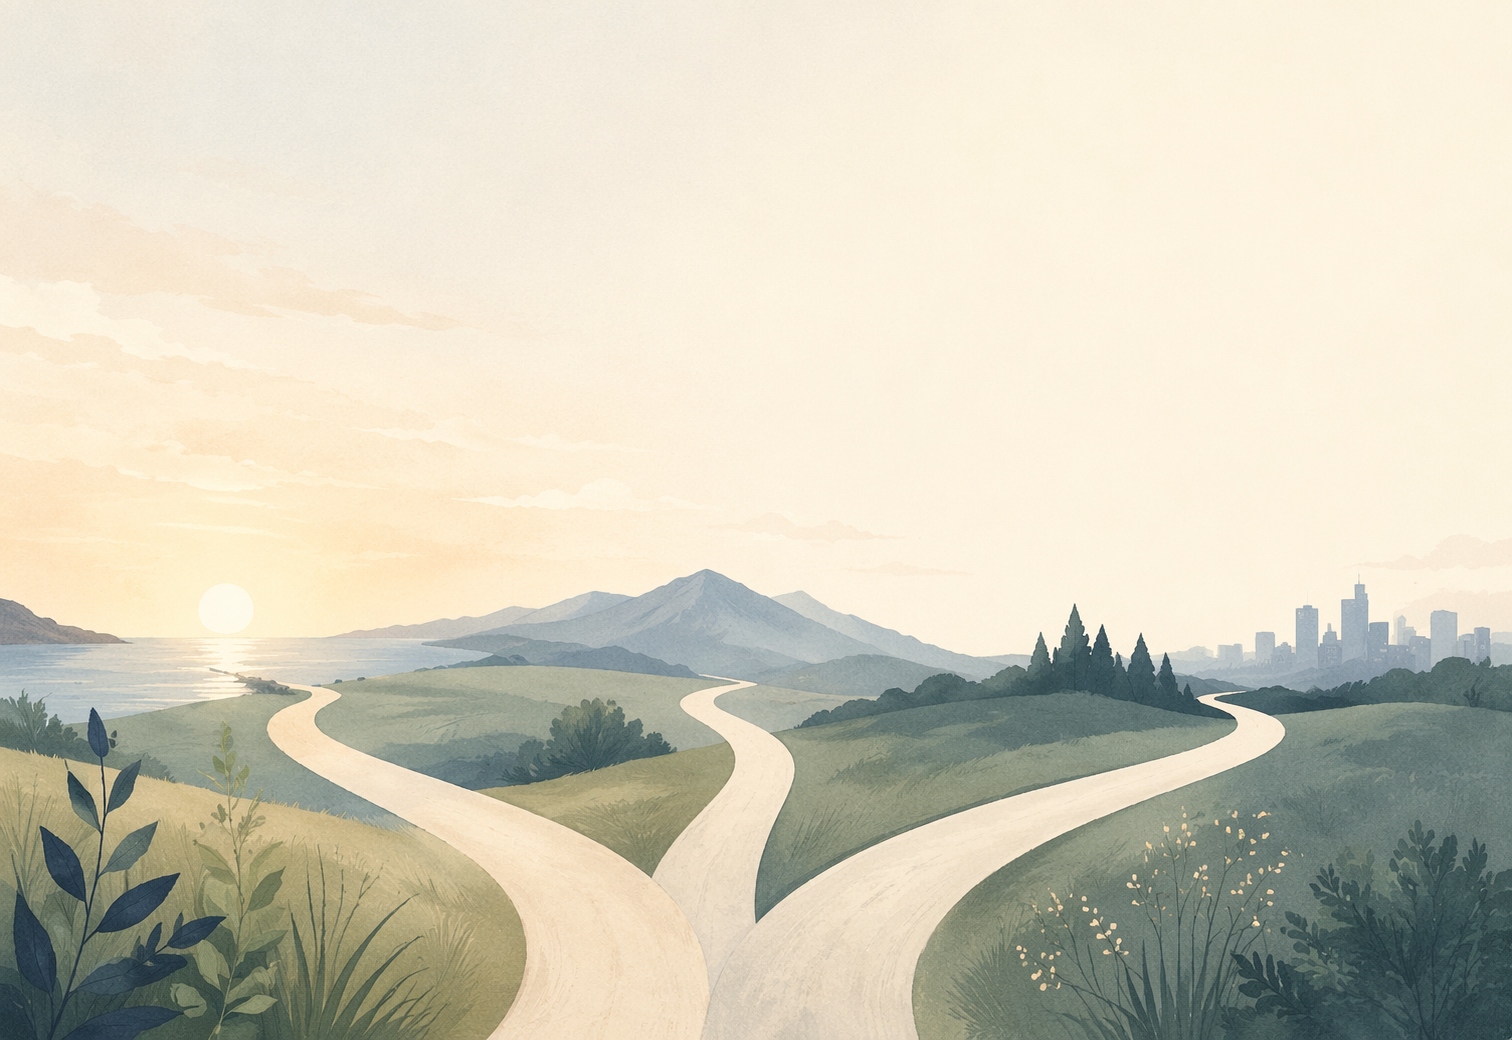
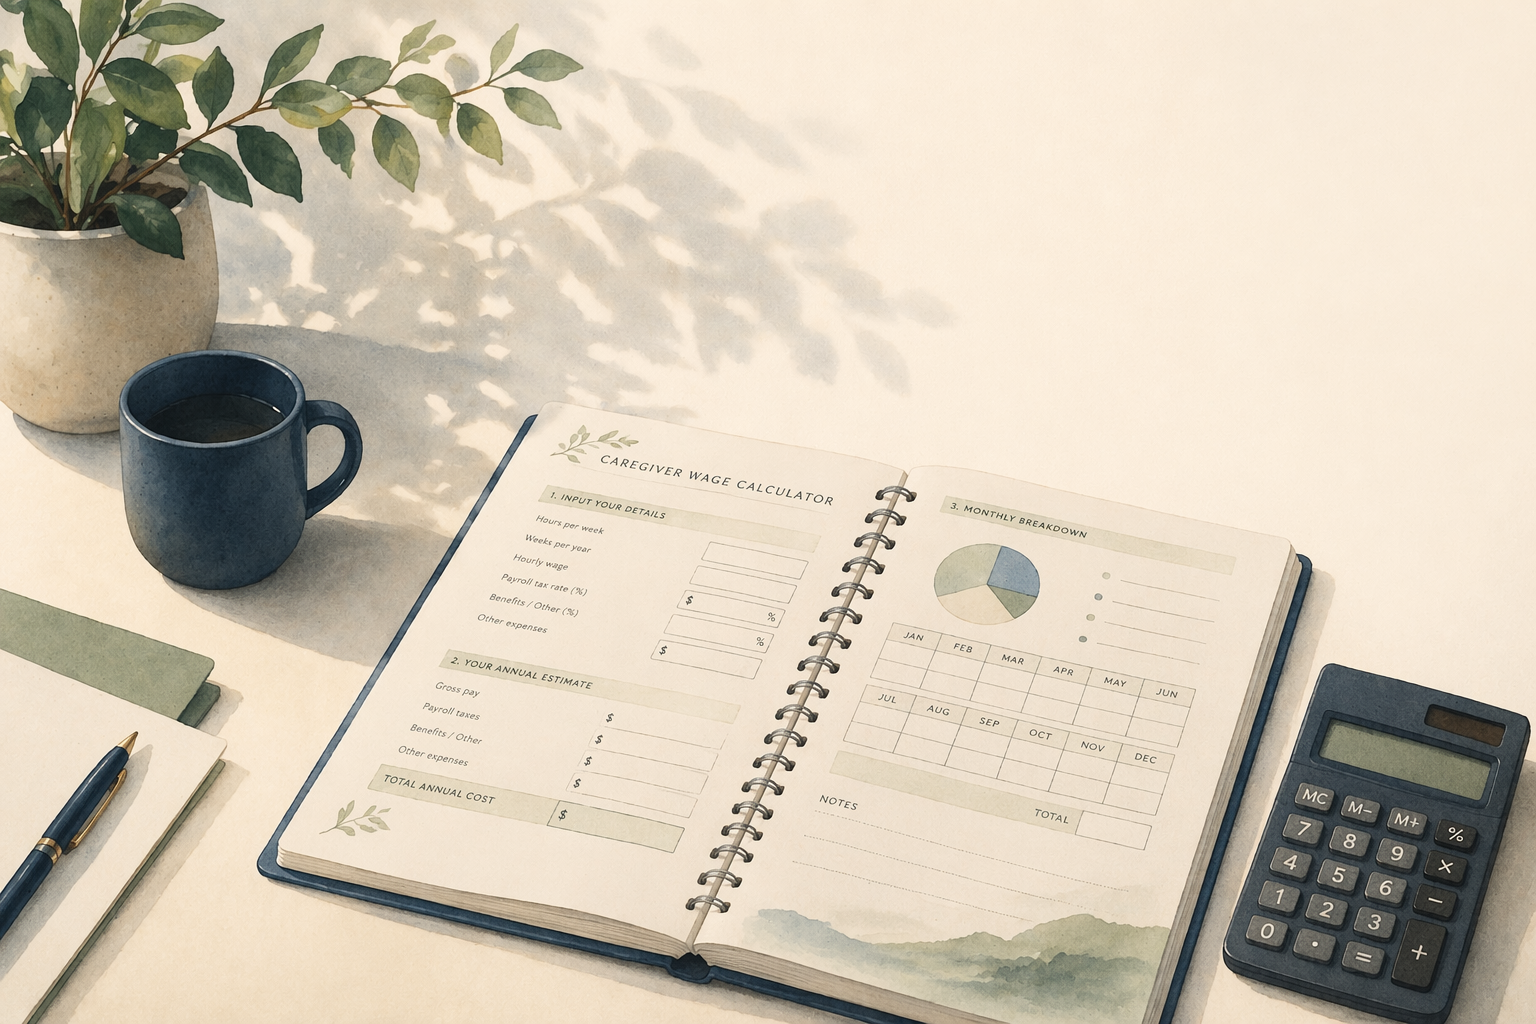
Update direct hire calculator page and resources organization
- Move calculator intro text after wave divider with "Calculator Overview" heading
- Update calculator hero image to Designer (5).png
- Reorganize resources page into three sections: Guides, Checklists, and Tools
- Update calculator button text to "Run Calculator" with calculator icon
- Fix mobile comparison dots in care arrangement guide to appear outside cards and track scroll position
- Update contact form heading to "Need help selecting the right wage?"
- Revise employer cost bullets for clarity (CPP, EI, WSIB, vacation pay)
- Change form name to "direct-hire-calc" for better Netlify detection

diff --git a/app/resources/page.tsx b/app/resources/page.tsx
@@ -114,11 +114,11 @@ export default function ResourcesPage() {
               </div>
             </div>
 
-            {/* Guides & Resources */}
+            {/* Guides */}
             <div className="mb-10">
-              <h3 className="mb-4 font-serif text-[20px] font-semibold text-navy">Guides & Resources</h3>
+              <h3 className="mb-4 font-serif text-[20px] font-semibold text-navy">Guides</h3>
               <div className="grid gap-5 md:grid-cols-2 lg:grid-cols-3">
-                {fmhcResources.map((resource) => {
+                {fmhcResources.filter(r => r.type === 'Full Guide' || r.type === 'Decision Guide').map((resource) => {
                   const Icon = resource.icon
                   return (
                     <div
@@ -136,37 +136,89 @@ export default function ResourcesPage() {
                           {resource.type}
                         </span>
                       </div>
-                      {!resource.comingSoon ? (
-                        resource.featured ? (
-                          <Link href={resource.link} className="mt-4">
-                            <Button
-                              className="w-full gap-2 rounded-lg px-4 text-white transition-all duration-200"
-                              style={{ backgroundColor: '#2B4C7E' }}
-                            >
-                              <BookOpen className="size-4" />
-                              Read Guide
-                            </Button>
-                          </Link>
-                        ) : (
-                          <Link href={resource.link} download={resource.isDownload} target="_blank" className="mt-4">
-                            <Button
-                              variant="outline"
-                              className="w-full gap-2 rounded-lg border-2 border-[#2B4C7E] px-4 text-[#2B4C7E] bg-transparent hover:bg-[#2B4C7E] hover:text-white transition-all duration-200"
-                            >
-                              <Download className="size-4" />
-                              Download
-                            </Button>
-                          </Link>
-                        )
-                      ) : (
+                      <Link href={resource.link} className="mt-4">
+                        <Button
+                          className="w-full gap-2 rounded-lg px-4 text-white transition-all duration-200"
+                          style={{ backgroundColor: '#2B4C7E' }}
+                        >
+                          <BookOpen className="size-4" />
+                          Read Guide
+                        </Button>
+                      </Link>
+                    </div>
+                  )
+                })}
+              </div>
+            </div>
+
+            {/* Checklists */}
+            <div className="mb-10">
+              <h3 className="mb-4 font-serif text-[20px] font-semibold text-navy">Checklists</h3>
+              <div className="grid gap-5 md:grid-cols-2 lg:grid-cols-3">
+                {fmhcResources.filter(r => r.type === 'PDF Download').map((resource) => {
+                  const Icon = resource.icon
+                  return (
+                    <div
+                      key={resource.title}
+                      className="flex flex-col justify-between rounded-xl border border-border bg-card p-6 transition-all duration-300 hover:shadow-md"
+                      style={{ borderLeftWidth: '3px', borderLeftColor: '#2B4C7E' }}
+                    >
+                      <div>
+                        <div className="mb-3 flex size-11 items-center justify-center rounded-full" style={{ backgroundColor: '#E8EDF5' }}>
+                          <Icon className="size-5" style={{ color: '#2B4C7E' }} />
+                        </div>
+                        <h4 className="mb-2 font-serif text-[17px] font-semibold text-navy">{resource.title}</h4>
+                        <p className="mb-3 text-sm leading-[1.65] text-muted-foreground">{resource.description}</p>
+                        <span className="inline-block rounded-full bg-secondary px-3 py-1 text-xs font-medium text-navy">
+                          {resource.type}
+                        </span>
+                      </div>
+                      <Link href={resource.link} download={resource.isDownload} target="_blank" className="mt-4">
                         <Button
                           variant="outline"
-                          disabled
-                          className="mt-4 w-full rounded-lg border-2 border-gray-300 px-4 text-gray-400 cursor-not-allowed"
+                          className="w-full gap-2 rounded-lg border-2 border-[#2B4C7E] px-4 text-[#2B4C7E] bg-transparent hover:bg-[#2B4C7E] hover:text-white transition-all duration-200"
                         >
-                          Coming Soon
+                          <Download className="size-4" />
+                          Download
                         </Button>
-                      )}
+                      </Link>
+                    </div>
+                  )
+                })}
+              </div>
+            </div>
+
+            {/* Tools */}
+            <div className="mb-10">
+              <h3 className="mb-4 font-serif text-[20px] font-semibold text-navy">Tools</h3>
+              <div className="grid gap-5 md:grid-cols-2 lg:grid-cols-3">
+                {fmhcResources.filter(r => r.type === 'Calculator').map((resource) => {
+                  const Icon = resource.icon
+                  return (
+                    <div
+                      key={resource.title}
+                      className="flex flex-col justify-between rounded-xl border border-border bg-card p-6 transition-all duration-300 hover:shadow-md"
+                      style={{ borderLeftWidth: '3px', borderLeftColor: '#2B4C7E' }}
+                    >
+                      <div>
+                        <div className="mb-3 flex size-11 items-center justify-center rounded-full" style={{ backgroundColor: '#E8EDF5' }}>
+                          <Icon className="size-5" style={{ color: '#2B4C7E' }} />
+                        </div>
+                        <h4 className="mb-2 font-serif text-[17px] font-semibold text-navy">{resource.title}</h4>
+                        <p className="mb-3 text-sm leading-[1.65] text-muted-foreground">{resource.description}</p>
+                        <span className="inline-block rounded-full bg-secondary px-3 py-1 text-xs font-medium text-navy">
+                          {resource.type}
+                        </span>
+                      </div>
+                      <Link href={resource.link} className="mt-4">
+                        <Button
+                          className="w-full gap-2 rounded-lg px-4 text-white transition-all duration-200"
+                          style={{ backgroundColor: '#2B4C7E' }}
+                        >
+                          <CalcIcon className="size-4" />
+                          Run Calculator
+                        </Button>
+                      </Link>
                     </div>
                   )
                 })}

diff --git a/app/resources/direct-hire-calculator/page.tsx b/app/resources/direct-hire-calculator/page.tsx
@@ -86,7 +86,7 @@ export default function DirectHireCalculatorPage() {
   return (
     <>
       {/* Hidden form for Netlify detection */}
-      <form name="direct-hire-calculator-inquiry" netlify netlify-honeypot="bot-field" hidden>
+      <form name="direct-hire-calc" netlify netlify-honeypot="bot-field" hidden>
         <input type="text" name="name" />
         <input type="email" name="email" />
         <input type="tel" name="phone" />
@@ -163,9 +163,17 @@ export default function DirectHireCalculatorPage() {
             </div>
           </section>
 
-          {/* Lead Paragraph */}
-          <section style={{ backgroundColor: "#E8EDF5" }} className="py-10 md:py-14">
+          <WaveDivider fillColor="#FFFFFF" backgroundColor="#F9FAFB" />
+
+          {/* Calculator Overview */}
+          <section className="bg-gray-50 py-10 md:py-14">
             <div className="mx-auto max-w-[900px] px-6">
+              <div className="mb-6 flex items-center gap-3">
+                <div className="flex size-10 items-center justify-center rounded-lg" style={{ backgroundColor: "#2B4C7E" }}>
+                  <BookOpen className="size-5 text-white" />
+                </div>
+                <h2 className="font-serif text-[26px] font-bold text-navy md:text-[32px]">Calculator Overview</h2>
+              </div>
               <p className="text-[15px] leading-[1.8] text-muted-foreground">
                 If you're hiring a care worker as a direct employee under Family-Managed Home Care, the wage you advertise isn't the whole story. As the employer, you also cover the employer side of Canada Pension Plan, Employment Insurance, and — if hours exceed 24 per week — WSIB premiums. All of those costs add up on top of the wage, and the total has to fit under the all-in hourly rate approved in your FMHC Schedule B.
               </p>
@@ -178,10 +186,8 @@ export default function DirectHireCalculatorPage() {
             </div>
           </section>
 
-          <WaveDivider fillColor="#E8EDF5" backgroundColor="#F9FAFB" />
-
           {/* Calculator Section */}
-          <section className="bg-gray-50 py-10 md:py-14">
+          <section className="bg-gray-50 py-10 md:py-14 border-t border-border/30">
             <div className="mx-auto max-w-[1200px] px-6">
               <div className="mb-10 flex items-center gap-3">
                 <div className="flex size-10 items-center justify-center rounded-lg" style={{ backgroundColor: "#2B4C7E" }}>
@@ -213,16 +219,20 @@ export default function DirectHireCalculatorPage() {
                   </p>
                   <ul className="mt-3 ml-6 space-y-2 list-disc">
                     <li>
-                      <strong>Canada Pension Plan (CPP)</strong> — employer match. Both employee and employer pay 5.95% of pensionable earnings. Pensionable earnings = gross wages minus the basic exemption ($291.67 per month).
+                      <strong>Canada Pension Plan (CPP) — employer contribution</strong><br />
+                      Both employee and employer contribute 5.95% of pensionable earnings. Pensionable earnings are calculated as gross wages minus the basic exemption ($291.67 per month).
                     </li>
                     <li>
-                      <strong>Employment Insurance (EI)</strong> — employer portion. Employee EI is 1.63% of gross wages. The employer pays 1.4× that rate, or about 2.28%.
+                      <strong>Employment Insurance (EI) — employer portion</strong><br />
+                      Employee EI is 1.63% of gross wages. The employer pays 1.4× that amount, or roughly 2.28%.
                     </li>
                     <li>
-                      <strong>WSIB premiums</strong> — if applicable. In Ontario, in-home domestic workers are exempt from WSIB if they work less than 24 hours per week. Above that threshold, the family must register with WSIB and pay premiums, typically 1.05% of gross wages (rate varies by classification).
+                      <strong>WSIB premiums — if applicable</strong><br />
+                      In Ontario, in-home domestic workers are exempt if they work under 24 hours per week. Above that threshold, WSIB premiums apply, typically around 1.05% of gross wages (varies by classification).
                     </li>
                     <li>
-                      <strong>Vacation pay</strong>. Ontario's Employment Standards Act requires 4% vacation pay (or more, depending on years of service). This can be paid out each pay period (built into the hourly wage) or accrued and paid as a lump sum.
+                      <strong>Vacation pay</strong><br />
+                      Ontario requires at least 4% vacation pay. This can either be included in the hourly rate or paid out separately.
                     </li>
                   </ul>
                   <p className="mt-3">
@@ -304,10 +314,10 @@ export default function DirectHireCalculatorPage() {
                   <div className="flex size-10 items-center justify-center rounded-lg" style={{ backgroundColor: "#2B4C7E" }}>
                     <Mail className="size-5 text-white" />
                   </div>
-                  <h2 className="font-serif text-[26px] font-bold text-navy md:text-[32px]">Need Help Sizing Up a Wage Offer?</h2>
+                  <h2 className="font-serif text-[26px] font-bold text-navy md:text-[32px]">Need help selecting the right wage?</h2>
                 </div>
                 <p className="text-[15px] leading-[1.8] text-muted-foreground">
-                  Every FMHC budget is different, and edge cases come up — multiple workers sharing hours, mid-year wage changes, surplus management, WSIB classification questions. If you'd like a second set of eyes on your numbers, reach out.
+                  Every FMHC setup is different. If you'd like a quick review of your calculation, we're here to help — no commitment required.
                 </p>
               </div>
 
@@ -330,11 +340,11 @@ export default function DirectHireCalculatorPage() {
                 </div>
               ) : (
                 <form
-                  name="direct-hire-calculator-inquiry"
+                  name="direct-hire-calc"
                   onSubmit={handleFormSubmit}
                   className="rounded-xl border-2 border-[#2B4C7E] bg-white p-6 md:p-8 shadow-xl"
                 >
-                  <input type="hidden" name="form-name" value="direct-hire-calculator-inquiry" />
+                  <input type="hidden" name="form-name" value="direct-hire-calc" />
                   <div className="space-y-5">
                     <div>
                       <label htmlFor="name" className="block text-sm font-semibold text-navy mb-2">

diff --git a/app/resources/care-arrangement-guide/page.tsx b/app/resources/care-arrangement-guide/page.tsx
@@ -118,6 +118,28 @@ export default function CareArrangementGuidePage() {
     return () => window.removeEventListener('scroll', handleScroll)
   }, [])
 
+  // Scroll tracking for mobile comparison cards
+  useEffect(() => {
+    const scrollContainer = document.getElementById('comparison-scroll')
+    if (!scrollContainer) return
+
+    const updateDots = () => {
+      const scrollLeft = scrollContainer.scrollLeft
+      const cardWidth = scrollContainer.scrollWidth / comparisonData.length
+      const activeIndex = Math.round(scrollLeft / cardWidth)
+
+      // Update dot colors
+      const dots = document.querySelectorAll('[data-dot-index]')
+      dots.forEach((dot, i) => {
+        const htmlDot = dot as HTMLElement
+        htmlDot.style.backgroundColor = i === activeIndex ? '#2B4C7E' : '#E8EDF5'
+      })
+    }
+
+    scrollContainer.addEventListener('scroll', updateDots)
+    return () => scrollContainer.removeEventListener('scroll', updateDots)
+  }, [])
+
   const scrollToTop = () => {
     window.scrollTo({ top: 0, behavior: 'smooth' })
   }
@@ -476,13 +498,14 @@ export default function CareArrangementGuidePage() {
                 <p className="mb-4 text-center text-sm text-muted-foreground">
                   Swipe to navigate →
                 </p>
-                <div className="overflow-x-auto snap-x snap-mandatory scrollbar-hide -mx-6 px-6">
+                <div className="overflow-x-auto snap-x snap-mandatory scrollbar-hide -mx-6 px-6" id="comparison-scroll">
                   <div className="flex gap-4 pb-4" style={{ width: `${comparisonData.length * 100}%` }}>
                     {comparisonData.map((row, index) => (
                       <div
                         key={index}
                         className="snap-center shrink-0 rounded-xl bg-white p-6 shadow-lg"
                         style={{ width: `calc(${100 / comparisonData.length}% - 12px)`, minWidth: '85vw' }}
+                        data-index={index}
                       >
                         <h3 className="mb-5 font-serif text-[18px] font-bold text-navy border-b pb-3" style={{ borderColor: '#E8EDF5' }}>
                           {row.factor}
@@ -510,18 +533,20 @@ export default function CareArrangementGuidePage() {
                             <div className="text-[15px] leading-[1.6] text-navy/80">{row.directHire}</div>
                           </div>
                         </div>
-                        <div className="mt-5 pt-4 border-t flex justify-center gap-2" style={{ borderColor: '#E8EDF5' }}>
-                          {comparisonData.map((_, i) => (
-                            <div
-                              key={i}
-                              className="h-1.5 w-1.5 rounded-full transition-all"
-                              style={{ backgroundColor: i === index ? '#2B4C7E' : '#E8EDF5' }}
-                            />
-                          ))}
-                        </div>
                       </div>
                     ))}
                   </div>
+                </div>
+                {/* Pagination dots outside cards */}
+                <div className="mt-4 flex justify-center gap-2" id="comparison-dots">
+                  {comparisonData.map((_, i) => (
+                    <div
+                      key={i}
+                      className="h-2 w-2 rounded-full transition-all duration-300"
+                      style={{ backgroundColor: i === 0 ? '#2B4C7E' : '#E8EDF5' }}
+                      data-dot-index={i}
+                    />
+                  ))}
                 </div>
               </div>
             </div>
